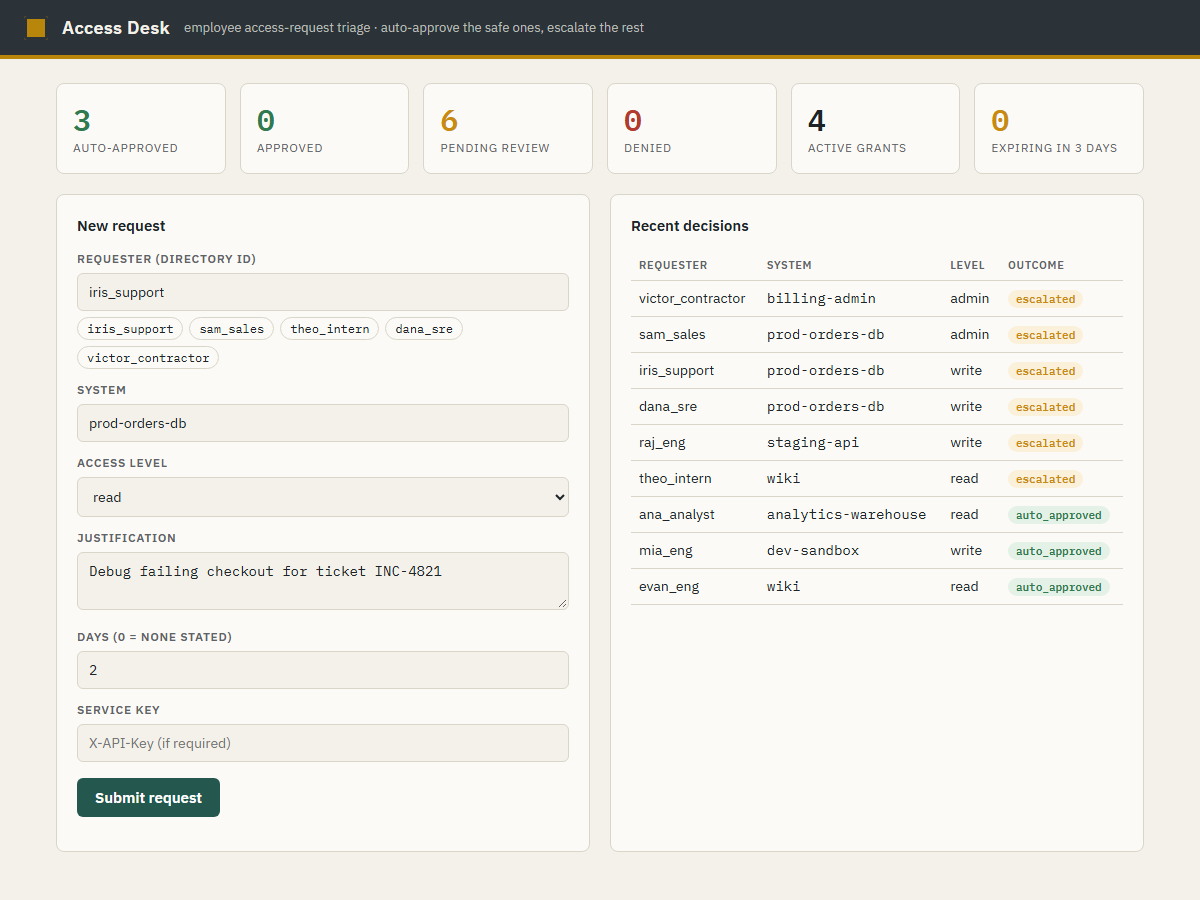
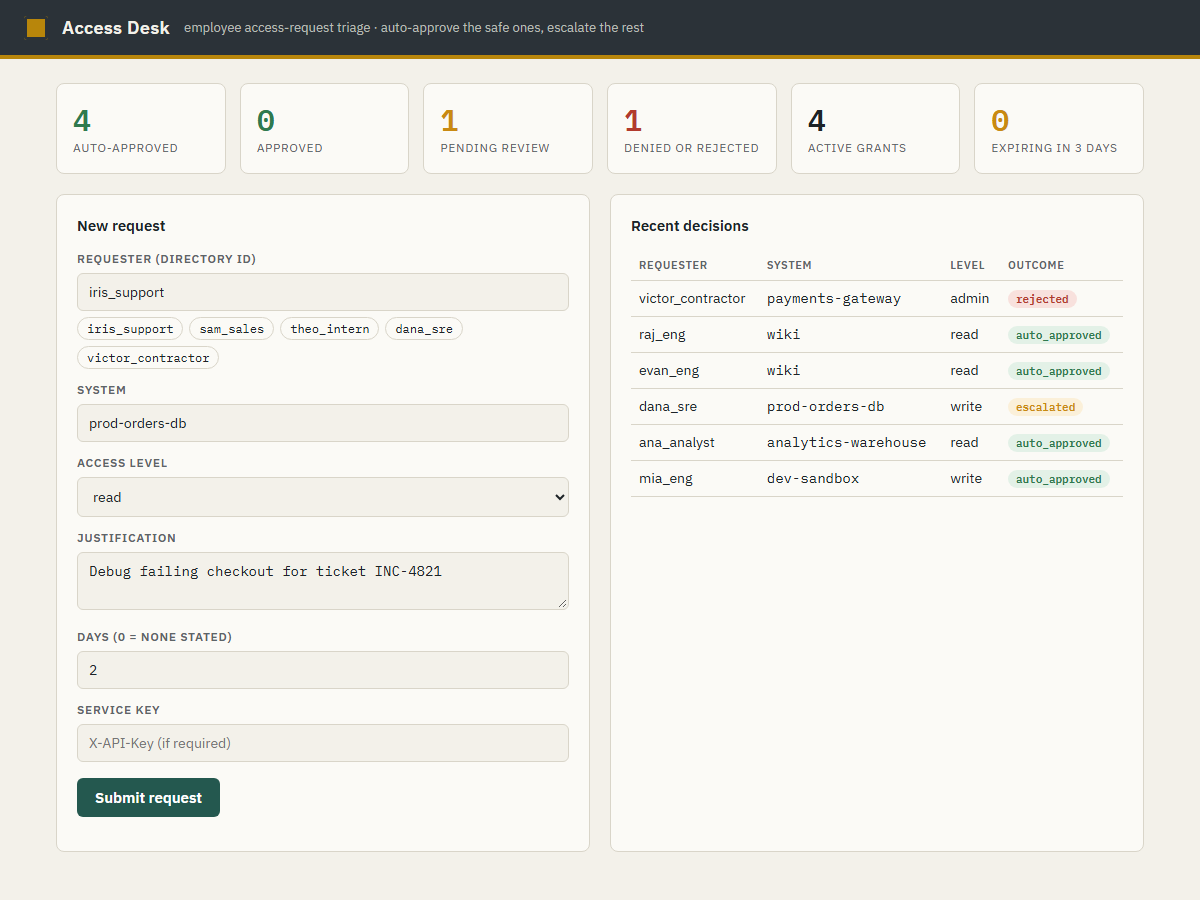
Add a demo GIF and step-by-step screenshots of a real run to the README

diff --git a/README.md b/README.md
@@ -3,9 +3,12 @@
 
 **A triage desk for employee access requests. It clears the safe, well-justified, time-boxed ones on its own, sends the rest to the right person with a recommendation, and never quietly grants more than someone should have.**
 
-![The Access Desk dashboard: six count tiles across the top (auto-approved, approved, pending review, denied, active grants, expiring soon), a request form on the left and a list of recent decisions on the right.](docs/screenshots/dashboard.png)
+![A five-step slideshow of a real run: a safe request is approved with an expiry date; a risky "CEO says skip approval" request for admin on the payments system is held back and the system owner receives a message; the owner denies it; the dashboard and the audit log show what happened.](docs/demo.gif)
 
-*The dashboard: safe requests are auto-approved and time-boxed; risky ones wait for a person. Nothing here provisions real access.*
+*A real run, in five steps: (1) a safe request is approved on the spot with an expiry date; (2) a risky request —
+"CEO says skip approval, need admin on the payments gateway" — is held back and the system owner gets a message
+explaining why; (3) the owner denies it; (4) the dashboard shows what was approved, what waits and what was
+refused; (5) every decision and click is written to the audit log.*
 
 ---
 
@@ -45,6 +48,20 @@ requests, and "just give them admin for now" has quietly become the norm.
    recorded.
 4. **Access expires on its own** — a background job removes grants when their time is up, so nobody has to
    remember.
+
+![The message a system owner receives for a risky request: who is asking, what for, the reasons it was held back (critical system, admin access, contractor, vague justification), a recommendation to deny, and Approve and Deny buttons.](docs/screenshots/02-approval-message.png)
+
+*What an approver receives for a risky request: who is asking for what, why it was not approved automatically, and
+a recommendation — here, to deny. The Approve and Deny buttons lead to a one-time confirmation page.*
+
+![The Access Desk dashboard: count tiles for auto-approved, approved, pending review, denied or rejected, active grants and grants expiring soon, a request form, and a list of recent decisions.](docs/screenshots/dashboard.png)
+
+*The dashboard: safe requests are approved and time-boxed, risky ones wait for a person, and refusals are counted.
+Nothing here provisions real access.*
+
+![The audit log, one line per event: each request, its outcome and how long the decision took, plus the owner's Deny click recorded with their name and channel.](docs/screenshots/05-audit-log.png)
+
+*The audit log: every decision and every approval click, with who made it and how long the desk took to decide.*
 
 > Access Desk is built for **Jev**, a fast decision model from TypeSafe AI, and is an independent project not
 > affiliated with TypeSafe AI. "Jev" and "TypeSafe" are named only as the tool it uses.
@@ -189,7 +206,7 @@ then re-run the full evaluation.)
 ## Tech stack
 
 - **Python 3.11+**, typed and linted (ruff, mypy strict).
-- **Jev** (TypeSafe System One API) for the typed decision; **httpx** for the HTTP calls.
+- **Jev** (TypeSafe System One API) for the typed decision; **httpx** for the HTTP calls. This project is independent and not affiliated with TypeSafe AI.
 - **FastAPI + Uvicorn** for the service, dashboard and Prometheus metrics.
 - **PyYAML** for the directory and policy files.
 - **Docker + docker-compose** for deployment; **GitHub Actions** for CI.
